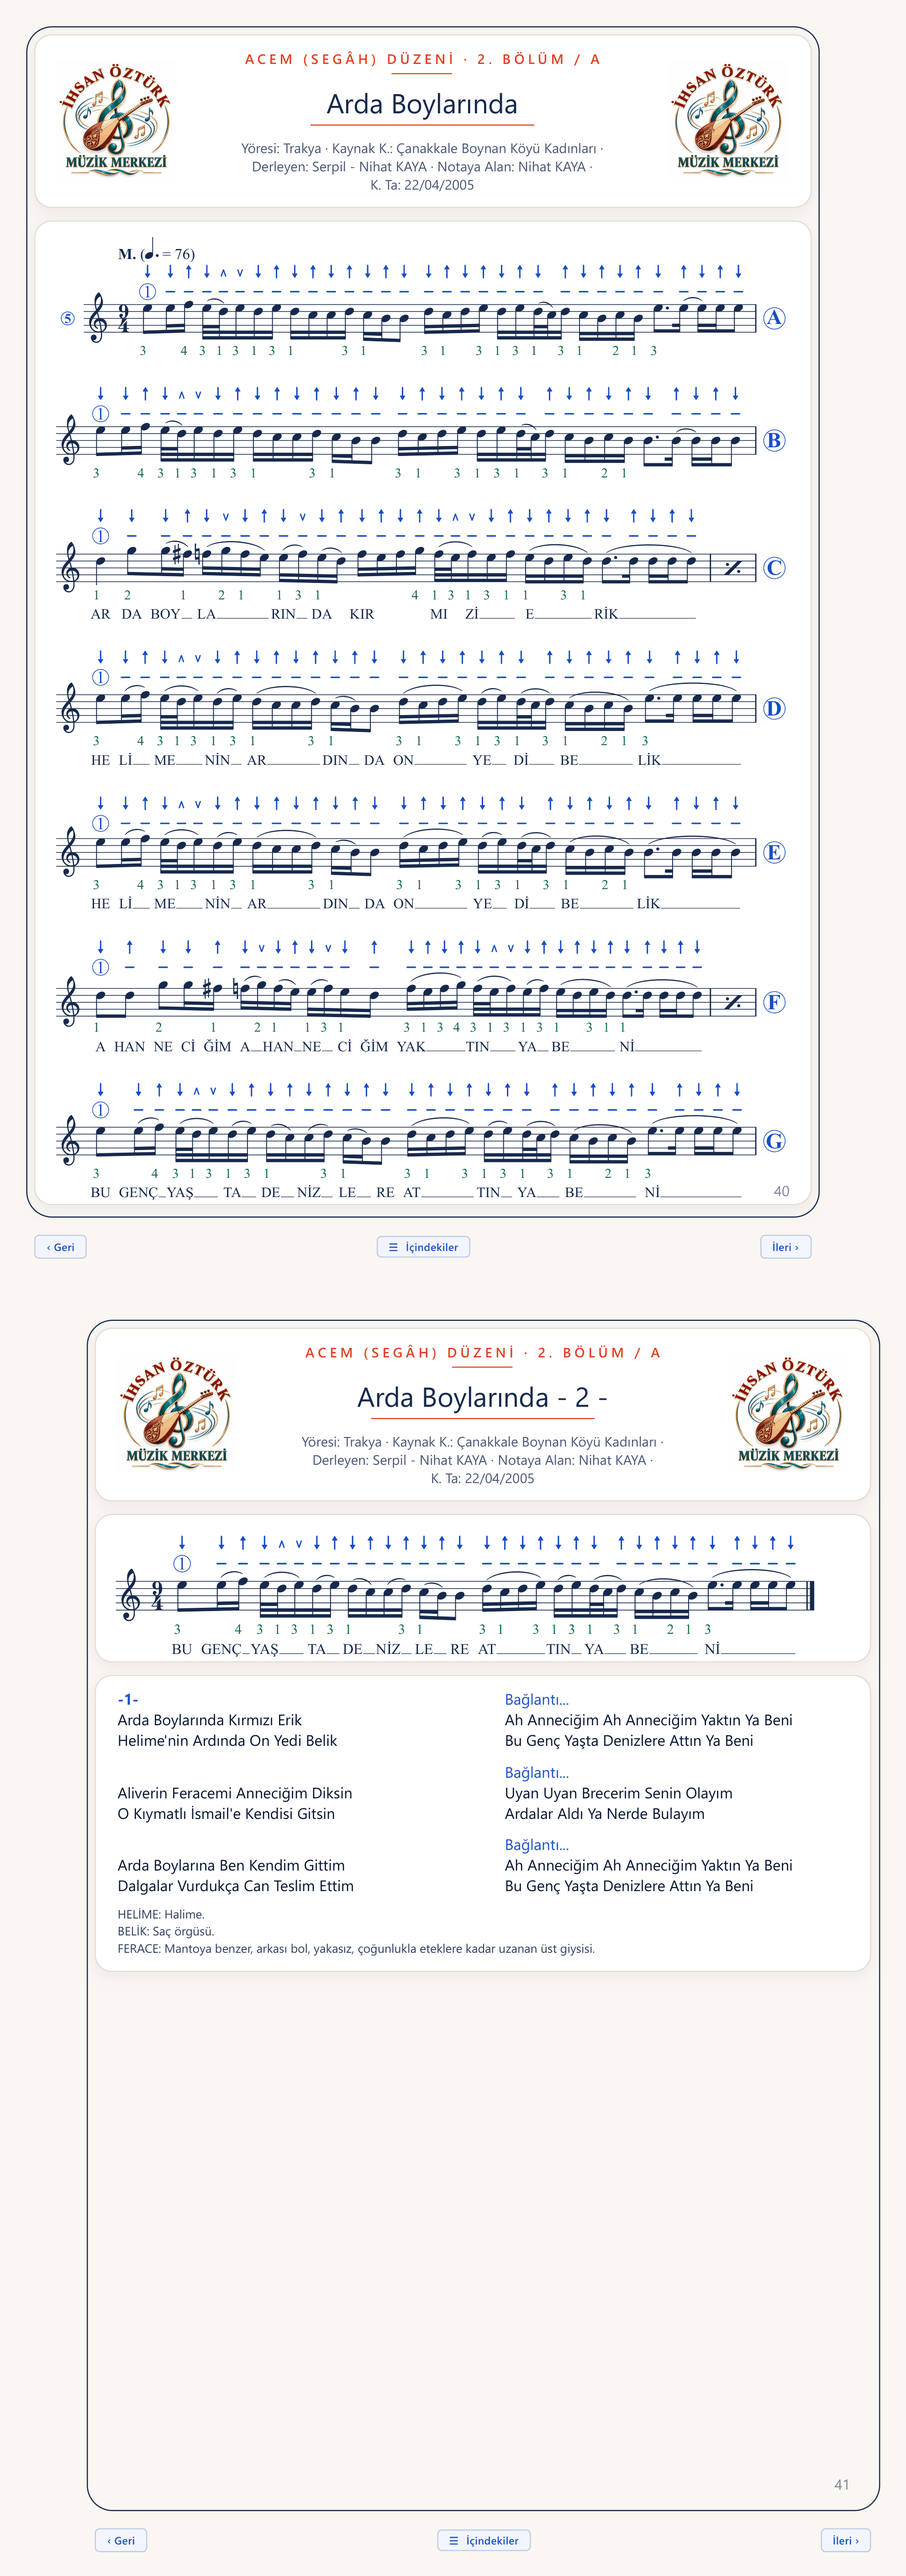
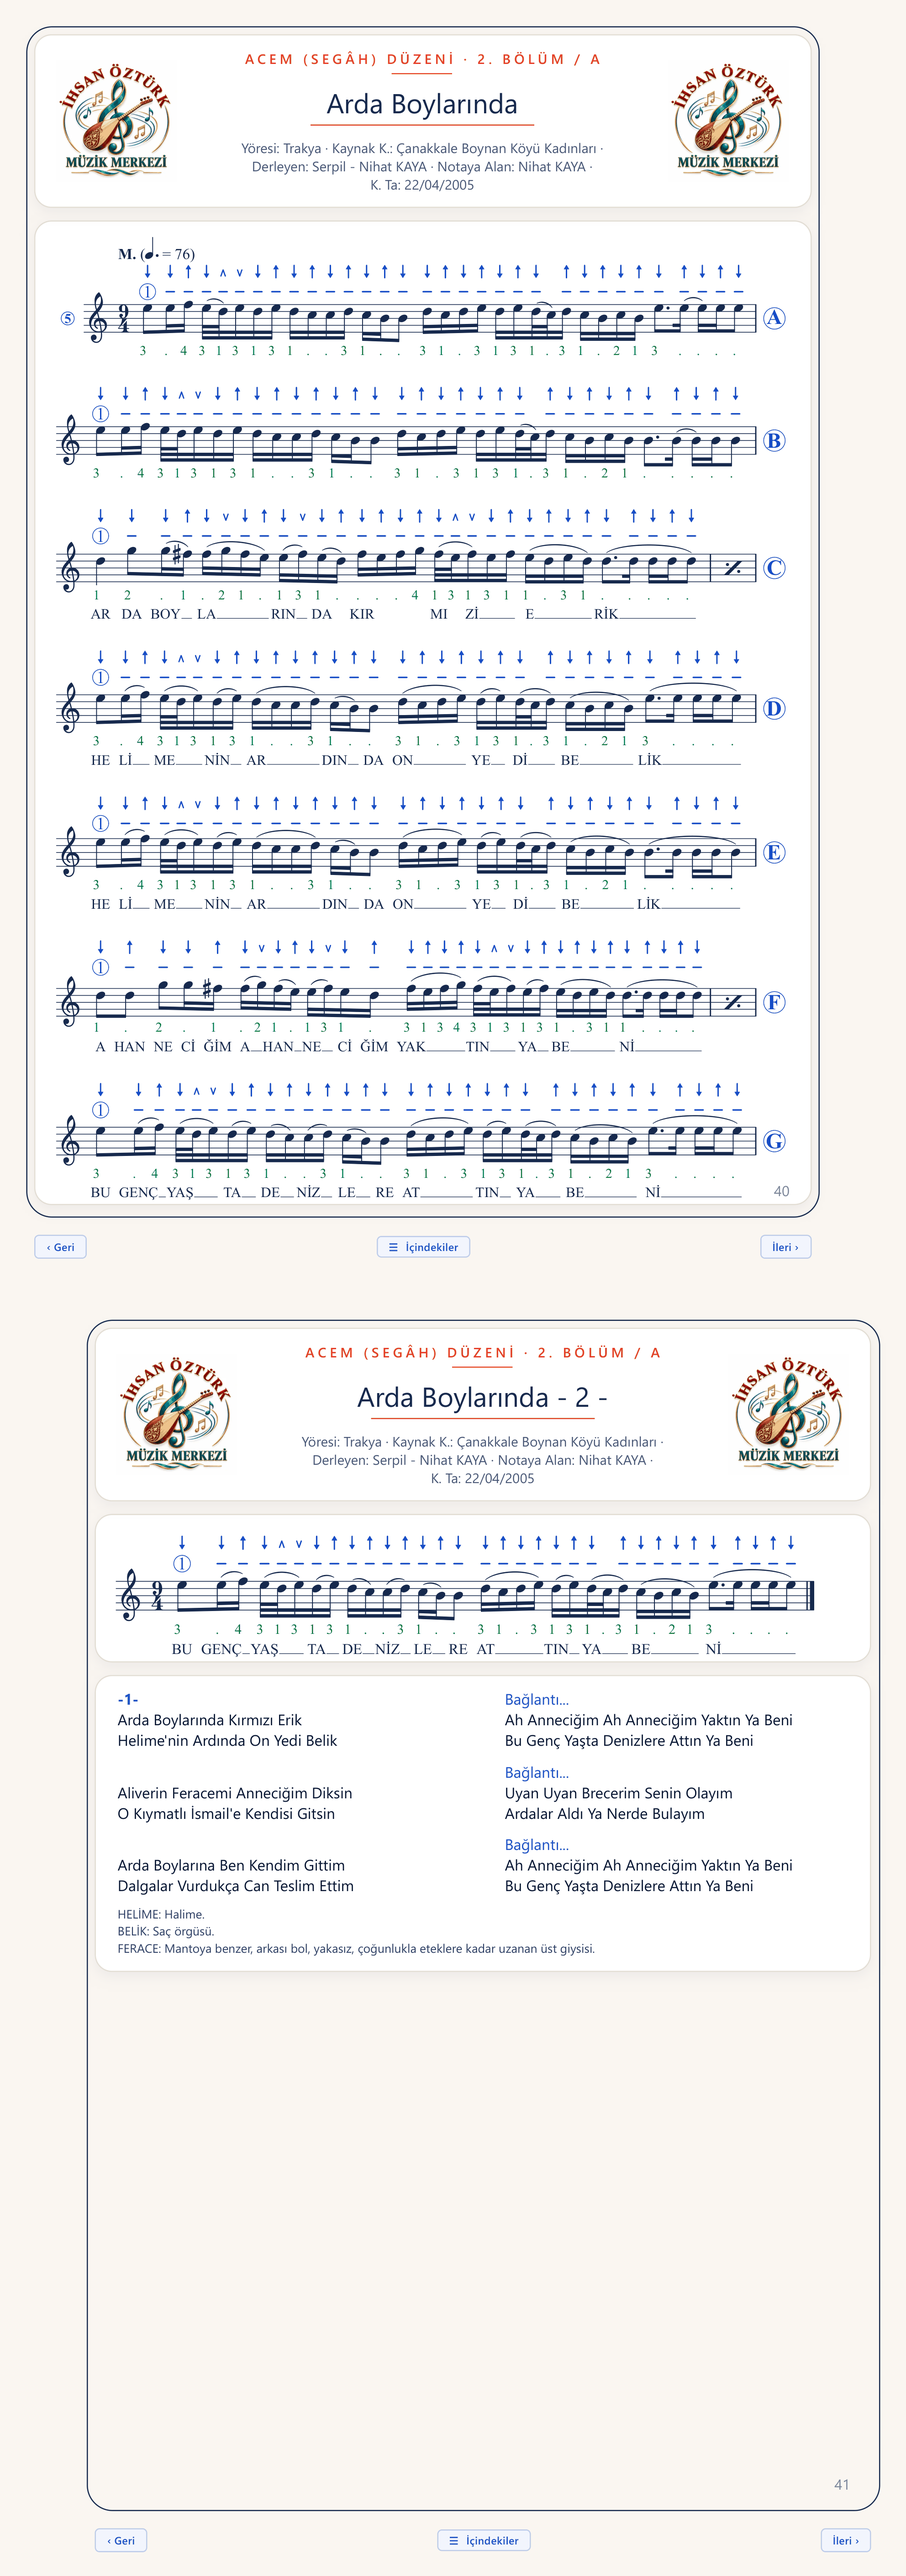
V88: Arda Boylarinda - SAZMETRI V0078 (B slur, C/F natural removed, dots under unfingered notes)

diff --git a/notes.js b/notes.js
@@ -19,7 +19,7 @@ window.NOTES = {
 "Terazi Tartayirum": { dir: "notes/terazi-tartayirum/", page: "notes/terazi-tartayirum/sayfa.png?v=83", pageBW: "notes/terazi-tartayirum/sayfa-sb.png?v=83", groups: ["A", "B", "C", "D", "E"], cue: [], perde: { A: "3 4 0 0 4 3 3 3 4 0 0 4 3", B: "3 4 7 7 4 7 4 4 11 10 7 4 7 4 3", C: "14 14 10 7 7 4 3 3 3 4 0 0 4 3", D: "3 4 0 0 4 3 3 3 4 0 0 4 3", E: "3 4 0 0 4 3 3 3 4 0 0 4 3" } },
 // V58 - K02 #22 Cemberimde Gul Oya: groups A-F, page + black-white page, video follows the teacher (V63: forced page-order alignment, 82% match)
 "Çemberimde Gül Oya": { dir: "notes/cemberimde-gul-oya/", page: "notes/cemberimde-gul-oya/sayfa.png?v=84", pageBW: "notes/cemberimde-gul-oya/sayfa-sb.png?v=84", groups: ["A", "B", "C", "D", "E", "F"], cue: {"1o3vWaz9lxNs2kK2JxwXPXgvSGyW8QdgG":[[3.04,"A"],[12.01,"B"],[20.97,"C"],[31.67,"D"],[36.28,"C"],[45.54,"D"],[48.68,"E"],[56.87,"F"]]}, pts: {"1o3vWaz9lxNs2kK2JxwXPXgvSGyW8QdgG":[[3.94,7],[4.09,7],[4.19,7],[4.31,14],[4.42,14],[4.69,12],[4.78,10],[5.02,14],[5.21,12],[5.37,12],[5.61,14],[5.74,12],[6.0,12],[6.16,14],[6.26,10],[6.39,7],[7.34,12],[7.85,12],[8.02,12],[8.12,14],[8.4,10],[8.51,7],[8.88,7],[9.04,7],[9.42,14],[9.52,10],[9.93,7],[10.2,12],[10.3,12],[10.43,12],[10.59,14],[10.95,10],[11.46,7],[11.71,7],[12.01,10],[13.01,10],[13.37,10],[13.49,14],[13.63,12],[13.73,10],[13.94,7],[14.14,4],[14.39,4],[14.48,3],[14.99,3],[15.44,3],[15.6,3],[15.74,3],[15.93,3],[16.1,3],[16.22,3],[16.46,3],[16.68,3],[17.12,3],[17.21,3],[17.43,3],[17.61,3],[17.71,3],[17.84,3],[17.95,3],[18.46,3],[18.59,3],[18.74,3],[18.97,3],[19.17,3],[19.29,3],[19.48,3],[19.7,3],[19.82,3],[20.0,3],[20.15,3],[20.31,3],[21.15,3],[21.39,3],[21.48,3],[22.01,14],[22.12,14],[22.26,14],[22.47,17],[22.58,12],[22.72,12],[23.2,3],[23.3,14],[23.43,14],[23.67,14],[23.89,17],[24.31,17],[24.4,12],[24.6,12],[25.04,14],[25.34,10],[25.5,7],[25.67,3],[26.08,3],[26.26,14],[26.45,14],[26.77,14],[27.02,17],[27.28,12],[27.37,12],[27.67,14],[27.87,10],[28.19,7],[28.35,3],[28.67,3],[29.01,4],[29.19,7],[29.61,10],[29.72,7],[30.13,4],[30.23,4],[30.32,3],[30.58,3],[30.8,3],[31.05,14],[31.16,14],[31.32,14],[31.45,17],[31.65,0],[31.76,0],[31.99,0],[32.25,4],[32.47,4],[32.89,4],[32.99,4],[33.92,4],[34.31,7],[34.42,4],[34.52,3],[34.71,0],[34.91,3],[35.11,3],[36.03,4],[36.37,3],[36.53,3],[36.68,3],[36.81,14],[36.91,14],[37.3,14],[37.4,17],[37.73,12],[37.96,12],[38.17,14],[38.47,10],[38.61,7],[38.82,3],[39.07,3],[39.54,4],[39.81,7],[40.48,10],[40.63,7],[40.75,4],[40.85,4],[41.15,3],[41.35,3],[41.82,3],[42.14,14],[42.34,14],[42.65,14],[42.95,17],[43.16,12],[43.32,12],[43.42,14],[43.61,10],[43.82,7],[43.93,3],[44.08,3],[44.23,4],[44.33,7],[44.5,10],[44.64,7],[44.73,4],[45.21,4],[45.66,7],[45.87,4],[46.03,3],[46.13,0],[46.3,0],[46.53,0],[46.67,4],[46.76,4],[46.99,4],[47.14,4],[47.23,4],[47.34,7],[47.76,7],[49.57,14],[49.74,12],[50.03,14],[50.23,12],[50.47,12],[50.78,12],[50.94,10],[51.15,7],[51.38,14],[51.6,12],[51.82,14],[51.97,12],[52.22,12],[52.76,10],[52.91,7],[53.23,12],[53.39,12],[53.52,12],[53.64,14],[53.73,10],[54.09,7],[54.25,7],[54.61,7],[54.71,14],[54.86,14],[55.12,12],[55.32,10],[55.42,14],[55.56,12],[55.71,14],[55.83,12],[55.91,12],[56.02,10],[56.44,7],[56.53,12],[56.94,3],[57.85,3],[58.18,10],[58.3,10],[58.6,14],[58.77,12],[59.22,10],[59.68,7],[59.88,7],[60.11,4],[60.4,4],[60.55,3],[60.75,3],[60.93,3],[61.02,3],[61.71,3],[62.1,3],[62.35,3],[62.82,3],[63.25,3],[63.41,3],[63.58,3],[63.72,3],[64.06,3],[64.15,3]]}, perde: { A: "7 7 14 14 12 10 14 12 14 12 12 14 10 7 12 12 12 14 10 7", B: "10 10 14 12 10 7 4 4 3 3 3 3 3 3 3 3 3 3 3", C: "3 3 4 7 10 7 4 4 3 3 3 14 14 14 17 12 12 14 10 7", D: "4 4 4 4 4 7 4 3 0 0 0 4 4 4 4 4 7 4 3 0 3 4 4", E: "7 7 14 14 12 10 14 12 14 12 12 10 7 12 12 12 14 10 7", F: "10 10 14 12 10 7 4 4 3 3 3 3 3 3 3 3 3 3 3" } },
-"Arda Boylarında": { dir: "notes/arda-boylarinda/", page: "notes/arda-boylarinda/sayfa.png?v=86", pageBW: "notes/arda-boylarinda/sayfa-sb.png?v=86", groups: ["A", "B", "C", "D", "E", "F", "G", "A2"], cue: [], perde: { A: "10 10 11 10 7 10 7 10 7 4 4 7 4 3 3 7 4 7 10 7 10 7 4 7 4 3 4 3 10 10 10 10 10", B: "10 10 11 10 7 10 7 10 7 4 4 7 4 3 3 7 4 7 10 7 10 7 4 7 4 3 4 3 3 3 3 3 3", C: "7 14 14 12 11 14 11 10 10 11 10 7 11 10 11 14 11 10 11 10 11 10 7 10 7 7 7 7 7 7", D: "10 10 11 10 7 10 7 10 7 4 4 7 4 3 3 7 4 7 10 7 10 7 4 7 4 3 4 3 10 10 10 10 10", E: "10 10 11 10 7 10 7 10 7 4 4 7 4 3 3 7 4 7 10 7 10 7 4 7 4 3 4 3 3 3 3 3 3", F: "7 7 14 14 12 11 14 11 10 10 11 10 7 11 10 11 14 11 10 11 10 11 10 7 10 7 7 7 7 7 7", G: "10 10 11 10 7 10 7 10 7 4 4 7 4 3 3 7 4 7 10 7 10 7 4 7 4 3 4 3 10 10 10 10 10", A2: "10 10 11 10 7 10 7 10 7 4 4 7 4 3 3 7 4 7 10 7 10 7 4 7 4 3 4 3 10 10 10 10 10" } },
+"Arda Boylarında": { dir: "notes/arda-boylarinda/", page: "notes/arda-boylarinda/sayfa.png?v=88", pageBW: "notes/arda-boylarinda/sayfa-sb.png?v=88", groups: ["A", "B", "C", "D", "E", "F", "G", "A2"], cue: [], perde: { A: "10 10 11 10 7 10 7 10 7 4 4 7 4 3 3 7 4 7 10 7 10 7 4 7 4 3 4 3 10 10 10 10 10", B: "10 10 11 10 7 10 7 10 7 4 4 7 4 3 3 7 4 7 10 7 10 7 4 7 4 3 4 3 3 3 3 3 3", C: "7 14 14 12 11 14 11 10 10 11 10 7 11 10 11 14 11 10 11 10 11 10 7 10 7 7 7 7 7 7", D: "10 10 11 10 7 10 7 10 7 4 4 7 4 3 3 7 4 7 10 7 10 7 4 7 4 3 4 3 10 10 10 10 10", E: "10 10 11 10 7 10 7 10 7 4 4 7 4 3 3 7 4 7 10 7 10 7 4 7 4 3 4 3 3 3 3 3 3", F: "7 7 14 14 12 11 14 11 10 10 11 10 7 11 10 11 14 11 10 11 10 11 10 7 10 7 7 7 7 7 7", G: "10 10 11 10 7 10 7 10 7 4 4 7 4 3 3 7 4 7 10 7 10 7 4 7 4 3 4 3 10 10 10 10 10", A2: "10 10 11 10 7 10 7 10 7 4 4 7 4 3 3 7 4 7 10 7 10 7 4 7 4 3 4 3 10 10 10 10 10" } },
 // V66: Hekimoğlu (Kitap 2 / 24): book page 42, groups A-D. No video yet: cue empty, perde from the SAZMETRI generator (open-string g' skipped).
 "Hekimoğlu": { dir: "notes/hekimoglu/", page: "notes/hekimoglu/sayfa.png?v=72", pageBW: "notes/hekimoglu/sayfa-sb.png?v=72", groups: ["A", "B", "C", "D"], cue: [], perde: { A: "10 11 11 11 10 7 7 7 7 4 7 7 7 4 7 4 10 7 10 4 7 4 7 3 4 7 7 10 11 14", B: "10 11 11 11 10 7 7 7 7 4 7 7 7 4 7 4 10 7 10 4 7 4 7 3 4 7 7 7", C: "7 7 7 10 10 7 10 11 7 4 7 10 10 10 10 11 7 10 4 7 11", D: "10 11 11 11 11 10 7 7 7 7 4 7 7 7 4 7 4 10 7 10 4 7 4 7 3 4 7 7 7" } },
 // V67: Kayanın Bedenleri (Kitap 2 / 25): book pages 43 + 44 stacked as one page; groups A-F (p.43), A2 (p.44 = G). No video yet: cue empty, perde from the SAZMETRI generator.

diff --git a/index.html b/index.html
@@ -557,7 +557,7 @@
 <script src="data.js?v=49"></script>
 <script src="media.js"></script>
 <script src="lyrics.js?v=87"></script>
-<script src="notes.js?v=86"></script>
+<script src="notes.js?v=88"></script>
 <script src="tools.js?v=40"></script>
 <script>
 const D = window.DATA;
@@ -633,7 +633,7 @@ function notes(name, msg, key){
     $('nt').firstChild.onclick = () => window.openPage && openPage(S.page, name, S.pageBW); }
   if (!S) { $('sheet').innerHTML = '<div class="ph">' + msg + '</div>'; sap(); return; }
   // V25 - one group (A, B, C ...) at a time; the letters on the right turn the page
-  $('sheet').innerHTML = '<div class="grp-view">' + S.groups.map(k => '<img class="nota" data-k="' + k + '" src="' + S.dir + k + '.png?v=86" alt="' + esc(name) + ' ' + k + '" hidden>').join('') + '</div>' +
+  $('sheet').innerHTML = '<div class="grp-view">' + S.groups.map(k => '<img class="nota" data-k="' + k + '" src="' + S.dir + k + '.png?v=88" alt="' + esc(name) + ' ' + k + '" hidden>').join('') + '</div>' +
     '<div class="grp-nav">' + S.groups.map(k => '<button data-k="' + k + '">' + k + '</button>').join('') + '</div>';
   const go = k => { $('sheet').querySelectorAll('[data-k]').forEach(e => e.tagName === 'IMG' ? e.hidden = e.dataset.k !== k : e.classList.toggle('on', e.dataset.k === k)); sap(S, k);
     // V40 - many groups: the list starts at the top (A) and slides down with the active letter
